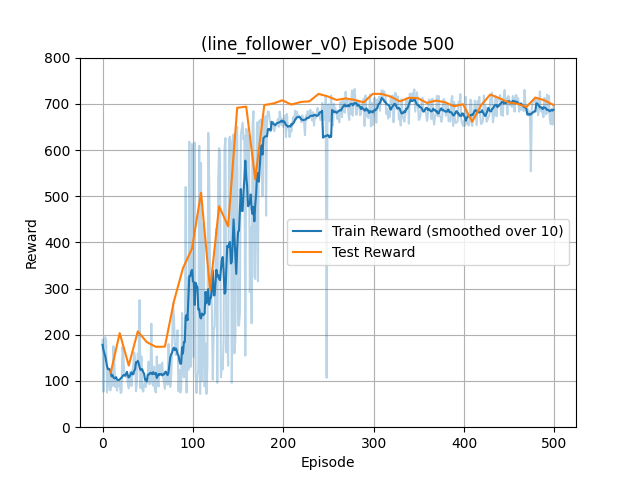
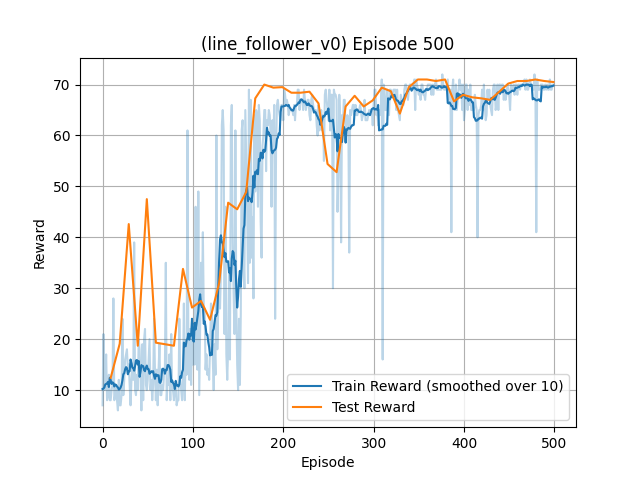
all readme added

diff --git a/line_follower_v0/test.py b/line_follower_v0/test.py
@@ -3,12 +3,13 @@ import line_follower_v0
 import pygame
 
 ENV_NAME = "line_follower_v0"
+enable_assist = True
 
 env = gym.make(
-    # f'gymnasium_env/{ENV_NAME}', render_mode="human",
-    f'my_gym_envs/{ENV_NAME}', render_mode=None,
+    f'my_gym_envs/{ENV_NAME}', render_mode="human",
+    # f'my_gym_envs/{ENV_NAME}', render_mode=None,
     sensor_grid = (4, 6),
-    track="path2",
+    track="oval",
     max_steps=500,
     # hitbox=20,
 )
@@ -29,12 +30,13 @@ while True:
 
     while not done:
         action = 1  # default: center
-            
-        vals = state[:4]
-        if vals[0]:
-            action = 0
-        elif vals[3]:
-            action = 2
+
+        if enable_assist:
+            vals = state[:4]
+            if vals[0]:
+                action = 0
+            elif vals[3]:
+                action = 2
 
         # Handle pygame events
         for event in pygame.event.get():

diff --git a/line_follower_v0/main.py b/line_follower_v0/main.py
@@ -23,8 +23,14 @@ TARGET_UPDATE = 10   # update target network every N episodes
 MODEL_PATH = "dqn_linefollower.pth"
 PLOT_PATH = "linefollower_rewards.png"
 EPS_DECAY = (EPS_END / EPS_START) ** (1/(0.7*EPISODES))
-continue_training = True
+SEED = 23
 
+# set the seed for both torch and numpy and everything
+torch.manual_seed(SEED)
+np.random.seed(SEED)
+random.seed(SEED)
+
+continue_training = True
 sensor_grid = (4, 6)
 # track = "oval"
 # track = "hexagon"
@@ -223,7 +229,7 @@ for episode in range(start_episode, EPISODES):
         plt.legend()
         plt.title(f"({ENV_NAME}) Episode {episode+1}")
         plt.grid()
-        plt.ylim(0, 800)
+        # plt.ylim(0, 800)
         plt.savefig(f"rewards_plot.png")
         plt.close()
 

diff --git a/gym_envs/line_follower_v0/envs/main.py b/gym_envs/line_follower_v0/envs/main.py
@@ -203,8 +203,8 @@ class LineFollowerEnv(gym.Env):
         
         vals = sensor_vals if sensor_vals is not None else self._get_obs()
         
-        self.car.display(canvas, vals=vals)
         self.car_coins.display(canvas)
+        self.car.display(canvas, vals=vals)
 
         if self.render_mode == "human":
             # The following line copies our drawings from `canvas` to the visible window

diff --git a/line_follower_v1/README.md b/line_follower_v1/README.md
@@ -1,0 +1,80 @@
+# Line Follower v1 — DDPG Training
+
+This folder contains the training and evaluation scripts for the Line Follower v1 task, which uses continuous actions. It builds on the custom environment described here:
+
+- Environment README: [../gym_envs/line_follower_v1](../gym_envs/line_follower_v1)
+- Env ID: `my_gym_envs/line_follower_v1`
+
+## Why Actor-Critic?
+
+In the previous version (Line Follower v0), we used DQN, a purely value-based approach where the model learns to predict Q-values for state-action pairs. This works well for discrete actions but can struggle with continuous action spaces due to the need to approximate Q-values over a large action space.
+
+For v1, the action space is continuous (wheel speeds in [-5, 5]), so we switched to an actor-critic method: Deep Deterministic Policy Gradient (DDPG). Actor-critic is a hybrid of value-based and policy-based approaches. Instead of predicting Q-values for all possible actions, we split the problem:
+
+- The **Actor** network directly outputs the best action (policy) for a given state.
+- The **Critic** network evaluates how good that action is by predicting the Q-value (value) for the state-action pair.
+
+This allows handling continuous actions more efficiently, with the actor learning the policy and the critic providing feedback. DDPG uses experience replay, target networks, and soft updates for stability, plus noise for exploration. It's like having a "driver" (actor) and a "coach" (critic) working together.
+
+## Algorithm
+
+- Deep Deterministic Policy Gradient (DDPG) with:
+  - Actor network: MLP (state_dim → 32 → 32 → action_dim) with ReLU and Tanh (outputs actions in [-5, 5])
+  - Critic network: MLP (state_dim + action_dim → 32 → 32 → 1) with ReLU
+  - Experience Replay (uniform sampling)
+  - Target Networks with soft updates (τ = 0.001)
+  - Exploration via Gaussian noise added to actions
+- Action space: Box(low=-5.0, high=5.0, shape=(2,)) [left wheel speed, right wheel speed]
+- Observation: Flattened binary sensor grid (default `(4,6)` = 24 bits)
+
+## How Training Works
+
+- Script: `main.py`
+- Key settings (see the script for full details):
+  - Episodes: `EPISODES = 100`
+  - Gamma: `GAMMA = 0.99`
+  - Actor LR: `LR_ACTOR = 1e-4`
+  - Critic LR: `LR_CRITIC = 1e-3`
+  - Batch size: `BATCH_SIZE = 64`
+  - Replay memory: `MEMORY_SIZE = 5000`
+  - Noise stddev: `NOISE_STDDEV = 0.5`
+  - Soft update τ: `TAU = 1e-3`
+  - Env params: `sensor_grid=(4,6)`, `track="rounded_square"`, `max_steps=200`, `hitbox=30`
+- Checkpointing and evaluation:
+  - Saves checkpoints to `ddpg_linefollower_v1.pth`
+  - Evaluates every 10 episodes via `evaluate.evaluate_model` and appends to a test curve
+  - Plots smoothed training rewards and test rewards to `rewards_plot_v1.png`
+
+## How to Run
+
+Assuming you have followed the installation instructions in the [root README](../) and the relevant environment is activated.
+
+Train:
+
+```bash
+python main.py
+```
+
+Evaluate (without training):
+
+- Requires `ddpg_linefollower_v1.pth` (already provided in this folder). You can run evaluation directly.
+
+```bash
+python evaluate.py
+```
+
+## Results
+
+- Trained model: `ddpg_linefollower_v1.pth`
+- Training and test rewards over episodes:
+
+<p align="center">
+  <img src="rewards_plot_v1.png" alt="Training and test rewards for Line Follower v1" width="520" />
+</p>
+
+## Files
+
+- `main.py`: DDPG training loop, checkpointing, plotting.
+- `evaluate.py`: Evaluate a saved checkpoint on the environment.
+- `ddpg_linefollower_v1.pth`: Saved model checkpoint (created/updated by training; one is included here).
+- `rewards_plot_v1.png`: Reward curves generated during training.

diff --git a/README.md b/README.md
@@ -8,9 +8,9 @@ Here is a description (in chronological order) which folder (project) does what 
 
 - **[snake_ladder/](snake_ladder/)**: Using Q table. Very basic, numpy implementation. The game is, if the player is given a magical power of precisely controlling the outcome of the dice, what is the minimum number of steps the player can complete the game in.
 - **[mountain_car/](mountain_car/)**: Learned Deep Q learning. Used a basic neural network (using pytorch) to train the [mountain car environment](https://gymnasium.farama.org/environments/classic_control/mountain_car/) from [gymnasium](https://gymnasium.farama.org/).
-- **[gym_envs/](gym_envs/)**: Collection of custom Gymnasium environments. All custom gym envs I build go here, and we would use these to train RL.
-- **[line_follower_v0/](line_follower_v0/)**: Using the custom env at [gym_envs/line_follower_v0](gym_envs/line_follower_v0). We train another DQN model. This is the second DQN model I trained.
-- **[line_follower_v1/](line_follower_v1/)**: Using the custom env at [gym_envs/line_follower_v1](gym_envs/line_follower_v1). But this time, the actoion space was cotinuous, so I needed to learn actor-critic algorithm for this and using that instead of DQN.
+- **[gym_envs/](gym_envs/)**: Collection of custom Gymnasium environments. All custom gym envs we build go here, and we would use these to train RL.
+- **[line_follower_v0/](line_follower_v0/)**: Using the custom env at [gym_envs/line_follower_v0](gym_envs/line_follower_v0). We train another DQN model. This is the second DQN model we trained.
+- **[line_follower_v1/](line_follower_v1/)**: Using the custom env at [gym_envs/line_follower_v1](gym_envs/line_follower_v1). But this time, the actoion space was cotinuous, so we needed to learn actor-critic algorithm for this and using that instead of DQN.
 
 ## Plans
 
@@ -22,3 +22,35 @@ Here is a description (in chronological order) which folder (project) does what 
 - [ ] flappy birds
 - [ ] fleet battle
 - [ ] minesweeper
+
+## Installation
+
+1. **Create a virtual environment** (optional but highly recommended):
+
+   ```bash
+   python -m venv venv
+   source venv/bin/activate  # On Windows: venv\Scripts\activate
+   ```
+
+2. **Install PyTorch**:
+   - GPU is mostly not needed, and all code works fast enough on CPU. You can install PyTorch for CPU like this:
+
+     ```bash
+     pip install torch --index-url https://download.pytorch.org/whl/cpu
+     ```
+
+   - however if you absolutely want to use GPU and have a cuda supported NVIDIA Card, follow the instructions at [https://pytorch.org/get-started/locally/](https://pytorch.org/get-started/locally/).
+
+3. **Install requirements**:
+
+   ```bash
+   pip install -r requirements.txt
+   ```
+
+4. **Install the custom environments**:
+
+   ```bash
+   cd gym_envs
+   pip install -e .  # install the custom gym environments
+   cd ..  # go back to the root directory
+   ```

diff --git a/line_follower_v0/README.md b/line_follower_v0/README.md
@@ -1,0 +1,78 @@
+# Line Follower v0 — DQN Training
+
+This folder contains the training, evaluation, and manual play scripts for the Line Follower v0 task. It uses the custom environment described here:
+
+- Environment README: [../gym_envs/line_follower_v0](../gym_envs/line_follower_v0)
+- Env ID: `my_gym_envs/line_follower_v0`
+
+## Algorithm
+
+- Deep Q-Network (DQN) with:
+  - Experience Replay (uniform sampling)
+  - Target Network updated every N episodes (`TARGET_UPDATE`)
+  - Epsilon-greedy exploration with exponential decay
+- Q-network: small MLP (state_dim -> 32 -> action_dim=3) with ReLU in between.
+- Action space: Discrete(3) [turn right, go straight, turn left]
+- Observation: Flattened binary sensor grid (default `(4,6)` = 24 bits)
+
+## How Training Works
+
+- Script: `main.py`
+- Key settings (see the script for full details):
+  - Episodes: `EPISODES = 500`
+  - Gamma: `GAMMA = 0.9`
+  - Learning rate: `LR = 1e-4`
+  - Batch size: `BATCH_SIZE = 64`
+  - Replay memory: `MEMORY_SIZE = 5000`
+  - Target update every `TARGET_UPDATE = 10` episodes
+  - Epsilon decay: `EPS_DECAY = (EPS_END/EPS_START) ** (1/(0.7*EPISODES))`
+  - Env params: `sensor_grid=(4,6)`, `track="rounded_square"`, `max_steps=200`, `hitbox=40`
+- Checkpointing and evaluation:
+  - Saves checkpoints to `dqn_linefollower.pth`
+  - Evaluates every target update via `evalualte.evaluate_model` and appends to a test curve
+  - Plots smoothed training rewards and test rewards to `rewards_plot.png`
+
+## How to Run
+
+Assuming you have followed the installation instructions in the [root README](../) and the relevant environment is activated.
+
+Train:
+
+```bash
+python main.py
+```
+
+Evaluate (without training):
+
+- Requires `dqn_linefollower.pth` (already provided in this folder). You can run evaluation directly.
+
+```bash
+python evalualte.py
+```
+
+Manual Play (keyboard):
+
+- Use `test.py` to drive the car:
+  - Left/Right arrow keys to steer
+  - `enable_assist = True` provides a very basic assist using edge sensors
+
+```bash
+python test.py
+```
+
+## Results
+
+- Trained model: `dqn_linefollower.pth`
+- Training and test rewards over episodes:
+
+<p align="center">
+  <img src="rewards_plot.png" alt="Training and test rewards for Line Follower v0" width="520" />
+</p>
+
+## Files
+
+- `main.py`: DQN training loop, checkpointing, plotting.
+- `evalualte.py`: Evaluate a saved checkpoint on the environment.
+- `test.py`: Manual play with keyboard controls (optional assist).
+- `dqn_linefollower.pth`: Saved model checkpoint (created/updated by training; one is included here).
+- `rewards_plot.png`: Reward curves generated during training.

diff --git a/gym_envs/README.md b/gym_envs/README.md
@@ -1,33 +1,17 @@
-# Gymnasium Examples
-Some simple examples of Gymnasium environments and wrappers.
-For some explanations of these examples, see the [Gymnasium documentation](https://gymnasium.farama.org).
+# Custom Gymnasium Environments
 
-### Environments
-This repository hosts the examples that are shown [on the environment creation documentation](https://gymnasium.farama.org/tutorials/gymnasium_basics/environment_creation/).
-- `GridWorldEnv`: Simplistic implementation of gridworld environment
+This is a collection of all the custom Gymnasium environments we built for reinforcement learning experiments.
 
-### Wrappers
-This repository hosts the examples that are shown [on wrapper documentation](https://gymnasium.farama.org/api/wrappers/).
-- `ClipReward`: A `RewardWrapper` that clips immediate rewards to a valid range
-- `DiscreteActions`: An `ActionWrapper` that restricts the action space to a finite subset
-- `RelativePosition`: An `ObservationWrapper` that computes the relative position between an agent and a target
-- `ReacherRewardWrapper`: Allow us to weight the reward terms for the reacher environment
+## Environments
 
-### Contributing
-If you would like to contribute, follow these steps:
-- Fork this repository
-- Clone your fork
-- Set up pre-commit via `pre-commit install`
-
-PRs may require accompanying PRs in [the documentation repo](https://github.com/Farama-Foundation/Gymnasium/tree/main/docs).
-
+- **[line_follower_v0/](line_follower_v0/)**: Simulates a line follower car with discrete actions (turn left/straight/turn right) and discrete sensors.
+- **[line_follower_v1/](line_follower_v1/)**: Simulates a line follower car with continuous actions (left/right wheel speeds) and discrete sensors.
 
 ## Installation
 
 To install your new environment, run the following commands:
 
-```{shell}
-cd line_follower_v0
+```bash
 pip install -e .
 ```
 
